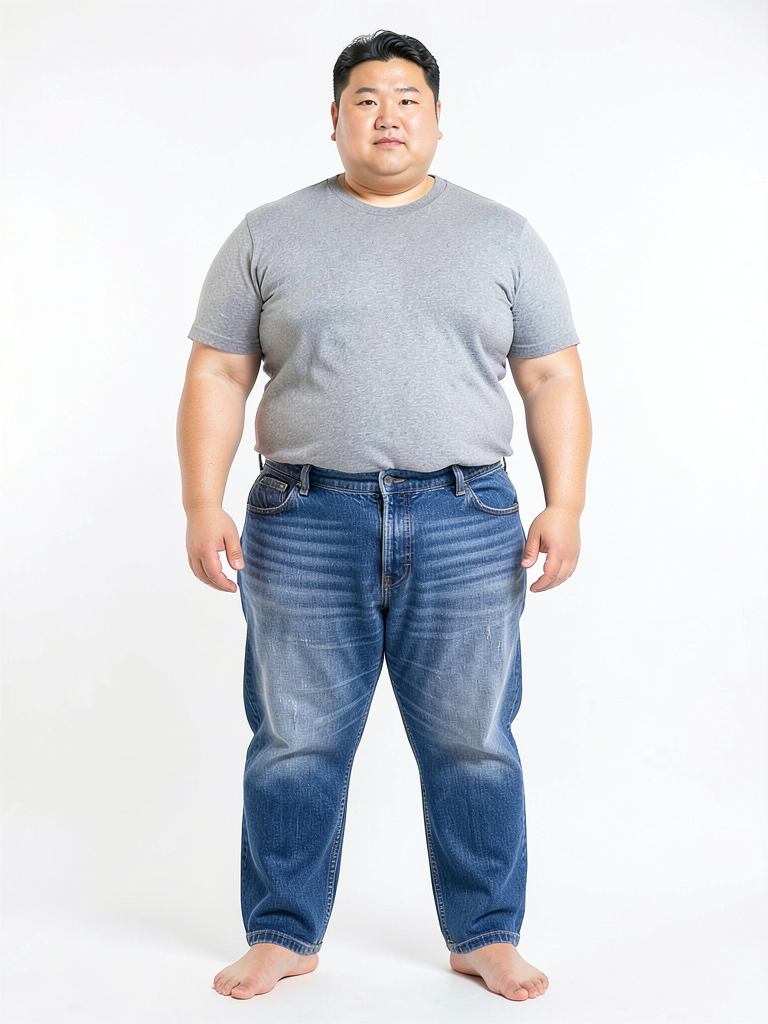
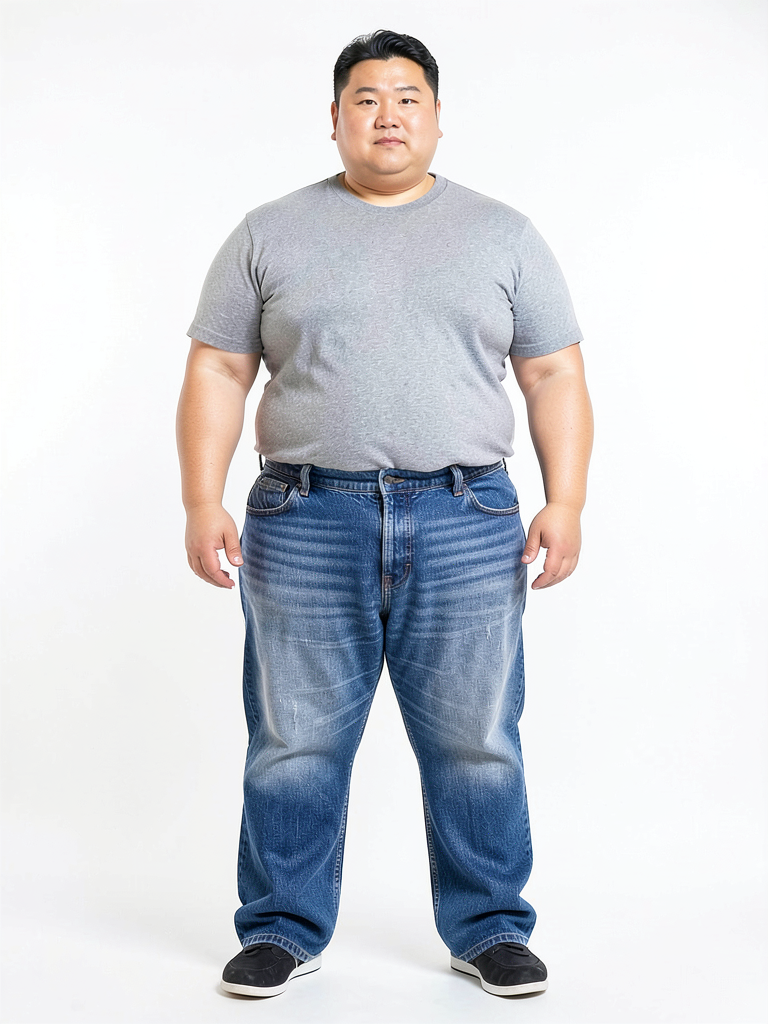
[S15P11A108-496] feat: 사이즈 퀴즈 이미지 추가, 둘리 타이트 레퍼런스 신체 묘사 강화
- fit_descriptor에 허리/허벅지/종아리까지 구체적 신체 묘사(muffin-top, 압박 주름 등)
  추가 -- 기존엔 폭 차이만 있고 hips/thighs 정도만 언급해서 타이트함이 설득력 없었음
- 총장(길이) 차이를 사람 키 대비 %로 정규화(폭 축과 동일한 원리) -- 절대 cm만 쓰던 것에서
  개선. 둘리(키 172cm 가정)로 재검증
- make_size_quiz.py: 4명 x 4사이즈 결과를 랜덤 순서로 섞어 한 줄로 나열한 퀴즈 이미지 +
  별도 정답지(answers.md) 생성 -- 팀원 대상 사이즈 맞히기용
- 아직 진행 중: "잘 맞아 보이는 정도"가 아니라 "사이즈가 명백히 안 맞는다"는 걸 더 뚜렷하게
  보여주도록 타이트 문구를 계속 다듬는 중(다음 커밋에서 이어감)

diff --git a/AI/validation/TRYON/AI_tryon/CatVTON/generate_worn_reference_jeans_fitaware.py b/AI/validation/TRYON/AI_tryon/CatVTON/generate_worn_reference_jeans_fitaware.py
@@ -36,21 +36,22 @@ WIDTH, HEIGHT = 768, 1024
 NUM_STEPS = 8
 GARMENT_PATH = os.path.join("image", "alpha_3", "jeans_cropped.png")
 
-# 사람마다 본인 AI 모델 생성 프롬프트와 동일한 몸 묘사 + 셔츠 색 + 허리둘레 가정값(§9에서
-# 확립). 셔츠 색을 본인 베이스 사진과 다르게 주면(예: 영희는 실제로 흰 티인데 회색으로
-# 생성) 마스크 경계에서 그 색이 새어나오는 아티팩트가 생긴다 -- 반드시 맞춰야 한다.
+# 사람마다 본인 AI 모델 생성 프롬프트와 동일한 몸 묘사 + 셔츠 색 + 허리둘레/키 가정값
+# (§9에서 확립). 셔츠 색을 본인 베이스 사진과 다르게 주면(예: 영희는 실제로 흰 티인데
+# 회색으로 생성) 마스크 경계에서 그 색이 새어나오는 아티팩트가 생긴다 -- 반드시 맞춰야
+# 한다. 키는 총장(길이) 차이를 "그 사람 기준 %"로 정규화하는 데 쓴다 -- 폭 축이
+# body_waist_cm로 정규화하는 것과 같은 원리(§7.5).
 PEOPLE = {
-    # NOTE: 영희만 셔츠 색이 실제와 안 맞아서(흰색인데 회색으로 생성) 4장만 다시 만든다 --
-    # 확인되면 아래 세 줄 복구.
-    # "cheolsu": ("a young Korean man", "grey", 75.0),
-    "younghee": ("a young Korean woman", "white", 65.0),
-    # "dooly": ("a heavyset plus-size Korean man with a bigger, larger build", "grey", 110.0),
-    # "maikol": ("a tall, slim young Black man", "grey", 72.0),
+    # NOTE: 둘리 M(ratio=0.727, 물리적으로 30cm나 작은 사이즈)이 여전히 안 타이트해
+    # 보여서 "extremely tight" 문구를 더 극단적으로 강화하고 둘리만 다시 만든다.
+    # "cheolsu": ("a young Korean man", "grey", 75.0, 175.0),
+    # "younghee": ("a young Korean woman", "white", 65.0, 162.0),
+    "dooly": ("a heavyset plus-size Korean man with a bigger, larger build", "grey", 110.0, 172.0),
+    # "maikol": ("a tall, slim young Black man", "grey", 72.0, 188.0),
 }
-SIZE_TABLE_WAIST_WIDTH_CM = {"M": 40.0, "L": 42.5, "XL": 45.0, "2XL": 47.5}
-# 총장(cm) -- 사이즈가 커질수록 기장도 길어진다(실제 사이즈표 값). 신장 가정값이 없어서
-# 절대 기준은 없지만, M을 기준으로 나머지가 얼마나 더 긴지(발목에 더 떨어지는지)는
-# 상대적으로 표현할 수 있다.
+SIZE_TABLE_WAIST_WIDTH_CM = {"M": 40.0}  # NOTE: M만 먼저 튜닝 확인 -- 확인되면 L/XL/2XL 복구
+# SIZE_TABLE_WAIST_WIDTH_CM = {"M": 40.0, "L": 42.5, "XL": 45.0, "2XL": 47.5}
+# 총장(cm, 실제 사이즈표 값) -- 사이즈가 커질수록 기장도 길어진다.
 LENGTH_TABLE_CM = {"M": 106.5, "L": 108.0, "XL": 109.5, "2XL": 111.0}
 
 
@@ -68,36 +69,50 @@ def fit_descriptor(ratio: float) -> str:
     pct = abs(ratio - 1.0) * 100
     if ratio < 1.0:
         if ratio <= 0.75:
-            base = "worn extremely tight with the denim straining and stretched taut across the hips and thighs"
+            base = (
+                "worn drastically too small, barely able to be worn, the button "
+                "straining and unable to close fully, a large muffin-top bulge of flesh "
+                "spilling over the waistband, the denim stretched so tight over the "
+                "belly, hips, and thighs that the fabric is taut like a drum and the "
+                "belt loops are pulled sideways, deep compression creases radiating "
+                "from the crotch, the calves also tightly squeezed by the narrow leg "
+                "opening"
+            )
         elif ratio <= 0.85:
-            base = "worn very tight with the denim visibly stretched across the hips and thighs"
+            base = (
+                "worn very tight, the denim visibly stretched across the waist, hips, "
+                "thighs, and calves, the waistband snug against the skin with a slight "
+                "bulge above it"
+            )
         else:
-            base = "worn snugly, slightly tight through the hips and thighs"
+            base = "worn snugly, fitting close and slightly tight against the hips, thighs, and calves"
         return f"{base}, about {pct:.0f}% too small at the waist"
     if ratio <= 1.05:
         return "fitting comfortably in a regular fit"
     if ratio <= 1.15:
-        base = "worn in a relaxed, slightly loose fit"
+        base = "worn in a relaxed, slightly loose fit through the hips, thighs, and calves"
     elif ratio <= 1.30:
-        base = "worn in a loose, baggy fit with extra room through the hips and thighs"
+        base = "worn in a loose, baggy fit with extra room through the hips, thighs, and calves"
     else:
-        base = "worn in an extremely loose, oversized fit with excess room through the hips and thighs"
+        base = "worn in an extremely loose, oversized fit with excess room through the hips, thighs, and calves"
     return f"{base}, about {pct:.0f}% too big at the waist"
 
 
-def length_descriptor(length_delta_cm: float) -> str:
-    """M(가장 짧은 사이즈) 대비 총장이 얼마나 긴지 -> 기장(발목 쪽) 묘사 절.
+def length_descriptor(length_delta_cm: float, height_cm: float) -> str:
+    """M(가장 짧은 사이즈) 대비 총장 차이를 그 사람 키 대비 %로 정규화해서 기장 묘사 절을
+    고른다 -- 같은 절대 cm라도 키가 작으면 더 크게, 크면 더 작게 체감된다는 걸 반영한다
+    (폭 축이 body_waist_cm로 정규화하는 것과 동일한 원리).
 
-    신장 가정값이 없어서 절대 기준은 못 쓰고, M을 0cm 기준점 삼아 상대적으로만
-    표현한다. 0이면 문구 없음(M 자신).
+    0이면(M 자신) 문구 없음.
     """
     if length_delta_cm <= 0:
         return ""
-    if length_delta_cm <= 2.0:
-        return f", the hem breaking gently right at the shoes ({length_delta_cm:.1f}cm longer than the shortest size)"
+    pct = length_delta_cm / height_cm * 100
+    if pct <= 1.2:
+        return f", the hem breaking gently right at the shoes (about {pct:.1f}% of their height longer than the shortest size)"
     return (
-        f", the extra {length_delta_cm:.1f}cm of length pooling and bunching slightly "
-        "over the shoes"
+        f", the extra length (about {pct:.1f}% of their height more than the shortest "
+        "size) pooling and bunching noticeably over the shoes"
     )
 
 
@@ -149,12 +164,12 @@ pipe = Flux2KleinPipeline.from_pretrained(
 )
 pipe.enable_model_cpu_offload()
 
-for person_name, (body_desc, shirt_color, waist_cm) in PEOPLE.items():
+for person_name, (body_desc, shirt_color, waist_cm, height_cm) in PEOPLE.items():
     for size_label, garment_waist_width_cm in SIZE_TABLE_WAIST_WIDTH_CM.items():
         ratio = garment_waist_width_cm / (waist_cm / 2.0)
         fit_phrase = fit_descriptor(ratio)
         length_delta_cm = LENGTH_TABLE_CM[size_label] - LENGTH_TABLE_CM["M"]
-        length_phrase = length_descriptor(length_delta_cm)
+        length_phrase = length_descriptor(length_delta_cm, height_cm)
         hem_phrase = length_phrase if length_phrase else ", ending cleanly right at the ankles above the shoes"
 
         prompt = (

diff --git a/AI/validation/TRYON/AI_tryon/CatVTON/verify_size_fit_alpha3_jeans_fitaware_dooly.py b/AI/validation/TRYON/AI_tryon/CatVTON/verify_size_fit_alpha3_jeans_fitaware_dooly.py
@@ -1,0 +1,101 @@
+"""둘리만 최신 fit-aware worn-reference(% 편차 + 총장 반영 로직)로 재검증한다.
+
+기존 배치(size_fit_alpha3_jeans_fitaware_20260804_113209)는 버킷 충돌 버그(L=0.773,
+XL=0.818이 같은 "0.75~0.85" 구간이라 문구가 완전히 동일)와 총장 미반영 버그가 있던
+버전이라, L/XL 간 차이가 거의 안 보였다. `verify_size_fit_alpha3_jeans_fitaware_younghee.py`
+와 동일한 패턴으로 둘리만 다시 돈다.
+"""
+
+import os
+from datetime import datetime
+
+import numpy as np
+import torch
+from diffusers.image_processor import VaeImageProcessor
+from huggingface_hub import snapshot_download
+from PIL import Image
+
+from model.cloth_masker import AutoMasker
+from model.pipeline import CatVTONPipeline
+from utils import init_weight_dtype, resize_and_crop, resize_and_padding
+
+OUT_DIR = os.path.join("result", "size_fit_alpha3_jeans_fitaware_dooly_" + datetime.now().strftime("%Y%m%d_%H%M%S"))
+os.makedirs(OUT_DIR, exist_ok=True)
+
+WIDTH, HEIGHT = 768, 1024
+GUIDANCE_SCALE = 3.0
+NUM_INFERENCE_STEPS = 50
+
+PERSON_NAME = "dooly"
+SIZES = ["M", "L", "XL", "2XL"]
+
+_MODELS_DIR = os.path.join("..", "models_ai_generated")
+_WORN_REF_DIR = os.path.join("result", "worn_references")
+
+print("=== 파이프라인 초기화 ===")
+repo_path = snapshot_download(repo_id="zhengchong/CatVTON")
+pipeline = CatVTONPipeline(
+    base_ckpt="booksforcharlie/stable-diffusion-inpainting",
+    attn_ckpt=repo_path,
+    attn_ckpt_version="mix",
+    weight_dtype=init_weight_dtype("bf16"),
+    use_tf32=True,
+    device="cuda",
+)
+pipeline.safety_checker = None
+
+
+def _bypass_safety_checker(self, image):
+    has_nsfw_concept = [False] * len(image) if isinstance(image, list) else [False]
+    return image, has_nsfw_concept
+
+
+pipeline.run_safety_checker = _bypass_safety_checker.__get__(pipeline)
+
+mask_processor = VaeImageProcessor(vae_scale_factor=8, do_normalize=False, do_binarize=True, do_convert_grayscale=True)
+automasker = AutoMasker(
+    densepose_ckpt=os.path.join(repo_path, "DensePose"),
+    schp_ckpt=os.path.join(repo_path, "SCHP"),
+    device="cuda",
+)
+print("초기화 완료")
+
+
+def composite_with_original(original_image, generated_image, mask):
+    original_np = np.array(original_image.resize(generated_image.size)).astype(np.float32)
+    generated_np = np.array(generated_image).astype(np.float32)
+    mask_np = np.array(mask.resize(generated_image.size).convert("L")).astype(np.float32) / 255.0
+    mask_np = np.expand_dims(mask_np, axis=-1)
+    composited = generated_np * mask_np + original_np * (1 - mask_np)
+    return Image.fromarray(composited.astype(np.uint8))
+
+
+person_image = Image.open(os.path.join(_MODELS_DIR, f"{PERSON_NAME}.png")).convert("RGB")
+person_image = resize_and_crop(person_image, (WIDTH, HEIGHT))
+
+lower_mask = automasker(person_image, mask_type="lower", fit_type="regular")["mask"]
+lower_mask = mask_processor.blur(lower_mask, blur_factor=2)  # §9.3
+
+for size_label in SIZES:
+    generator = torch.Generator(device="cuda").manual_seed(42)
+
+    worn_ref_path = os.path.join(_WORN_REF_DIR, f"jeans_worn_reference_{PERSON_NAME}_{size_label}.png")
+    worn_ref_image = Image.open(worn_ref_path).convert("RGB")
+    worn_ref_image = resize_and_padding(worn_ref_image, (WIDTH, HEIGHT))
+
+    print(f"\n=== {PERSON_NAME} {size_label} ===")
+    result_image = pipeline(
+        image=person_image,
+        condition_image=worn_ref_image,
+        mask=lower_mask,
+        num_inference_steps=NUM_INFERENCE_STEPS,
+        guidance_scale=GUIDANCE_SCALE,
+        generator=generator,
+    )[0]
+    final = composite_with_original(person_image, result_image, lower_mask)
+
+    out_path = os.path.join(OUT_DIR, f"tryon_{PERSON_NAME}_{size_label}.png")
+    final.save(out_path)
+    print(f"완료 -> {out_path}")
+
+print(f"\n둘리 전체 사이즈 처리 완료 -> {OUT_DIR}")

diff --git a/AI/validation/TRYON/AI_tryon/CatVTON/make_size_quiz.py b/AI/validation/TRYON/AI_tryon/CatVTON/make_size_quiz.py
@@ -1,0 +1,64 @@
+"""팀원용 "사이즈 맞히기" 퀴즈 이미지를 만든다.
+
+4명(철수/영희/둘리/마이콜) 각각의 M/L/XL/2XL 청바지 결과를 랜덤 순서로 섞어서 한 줄로
+나열한 퀴즈 이미지를 만든다 -- 사진에는 위치 번호(1~4)만 붙고 실제 사이즈는 안 보인다.
+정답은 별도 텍스트 파일에만 적는다.
+
+영희는 최종 수정본(size_fit_alpha3_jeans_fitaware_younghee_20260804_130809, 셔츠 색/
+blur_factor/기장 버그 다 고친 버전)을, 나머지 세 명은 그 전 배치(size_fit_alpha3_
+jeans_fitaware_20260804_113209)를 그대로 쓴다.
+"""
+
+import random
+
+from PIL import Image, ImageDraw, ImageFont
+
+SIZES = ["M", "L", "XL", "2XL"]
+SOURCES = {
+    "younghee": "result/size_fit_alpha3_jeans_fitaware_younghee_20260804_130809",
+    "cheolsu": "result/size_fit_alpha3_jeans_fitaware_20260804_113209",
+    "dooly": "result/size_fit_alpha3_jeans_fitaware_20260804_113209",
+    "maikol": "result/size_fit_alpha3_jeans_fitaware_20260804_113209",
+}
+
+OUT_DIR = "result/size_quiz_20260804"
+THUMB = (300, 400)
+LABEL_H = 50
+
+random.seed()  # 매 실행 랜덤 -- 정답은 아래에서 바로 기록하니 재현성 필요 없음
+
+answer_lines = ["# 사이즈 퀴즈 정답지\n"]
+
+for person, src_dir in SOURCES.items():
+    order = SIZES.copy()
+    random.shuffle(order)
+
+    combo = Image.new("RGB", (THUMB[0] * 4, THUMB[1] + LABEL_H), "white")
+    draw = ImageDraw.Draw(combo)
+    try:
+        font = ImageFont.truetype("arial.ttf", 28)
+    except OSError:
+        font = ImageFont.load_default()
+
+    for i, size in enumerate(order):
+        img = Image.open(f"{src_dir}/tryon_{person}_{size}.png").convert("RGB")
+        img = img.resize(THUMB)
+        x = i * THUMB[0]
+        combo.paste(img, (x, LABEL_H))
+        label = str(i + 1)
+        bbox = draw.textbbox((0, 0), label, font=font)
+        tw = bbox[2] - bbox[0]
+        draw.text((x + THUMB[0] // 2 - tw // 2, 8), label, fill="black", font=font)
+
+    out_path = f"{OUT_DIR}/quiz_{person}.png"
+    combo.save(out_path)
+    print(f"완료 -> {out_path} (순서: {order})")
+
+    answer_lines.append(f"## {person}")
+    for i, size in enumerate(order):
+        answer_lines.append(f"- {i + 1}번 -> {size}")
+    answer_lines.append("")
+
+with open(f"{OUT_DIR}/answers.md", "w", encoding="utf-8") as f:
+    f.write("\n".join(answer_lines))
+print(f"\n정답지 -> {OUT_DIR}/answers.md")

diff --git a/AI/validation/TRYON/AI_tryon/CatVTON/result/size_quiz_20260804/answers.md b/AI/validation/TRYON/AI_tryon/CatVTON/result/size_quiz_20260804/answers.md
@@ -1,0 +1,25 @@
+# 사이즈 퀴즈 정답지
+
+## younghee
+- 1번 -> 2XL
+- 2번 -> XL
+- 3번 -> M
+- 4번 -> L
+
+## cheolsu
+- 1번 -> L
+- 2번 -> M
+- 3번 -> 2XL
+- 4번 -> XL
+
+## dooly
+- 1번 -> M
+- 2번 -> XL
+- 3번 -> L
+- 4번 -> 2XL
+
+## maikol
+- 1번 -> L
+- 2번 -> 2XL
+- 3번 -> XL
+- 4번 -> M
